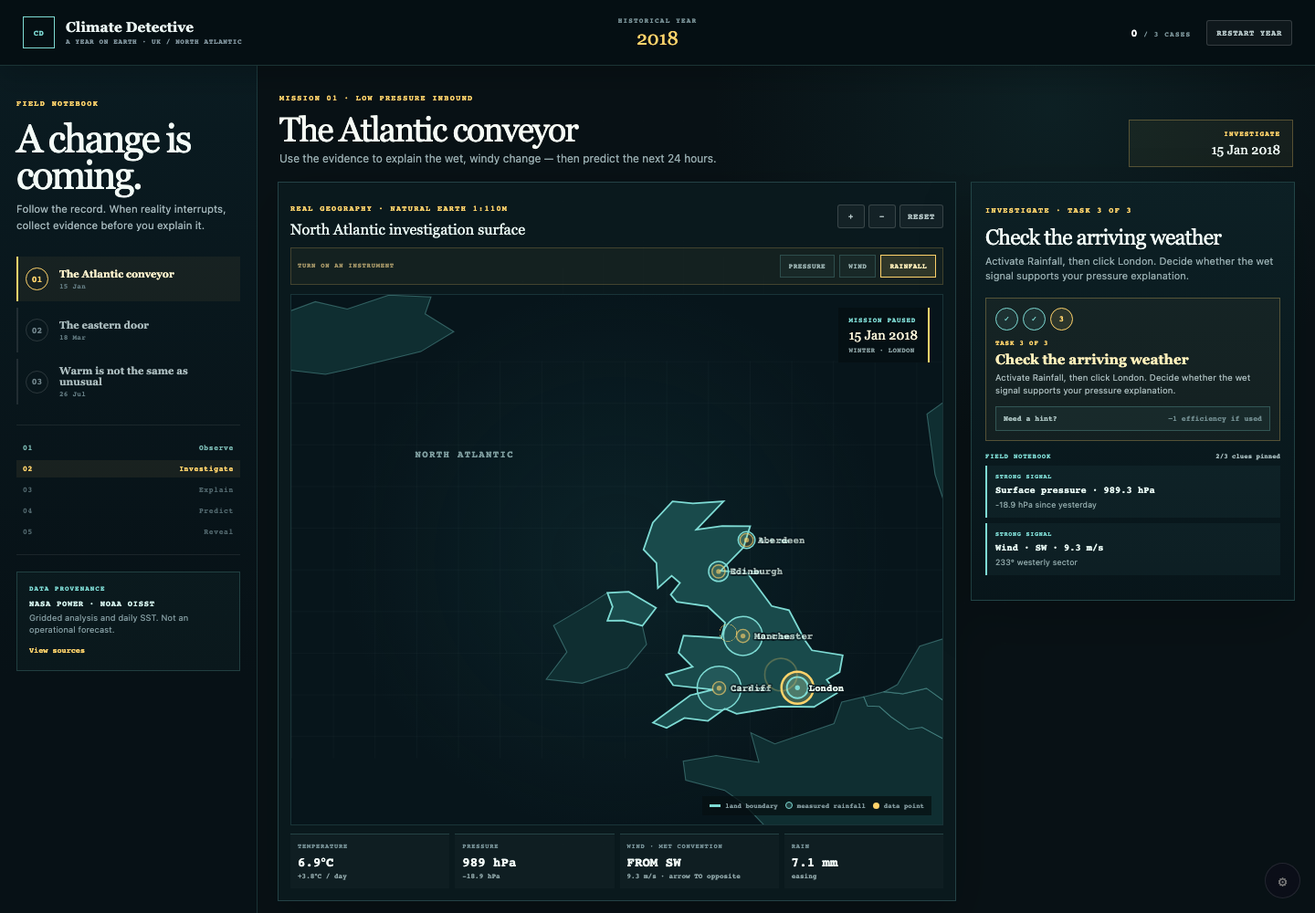
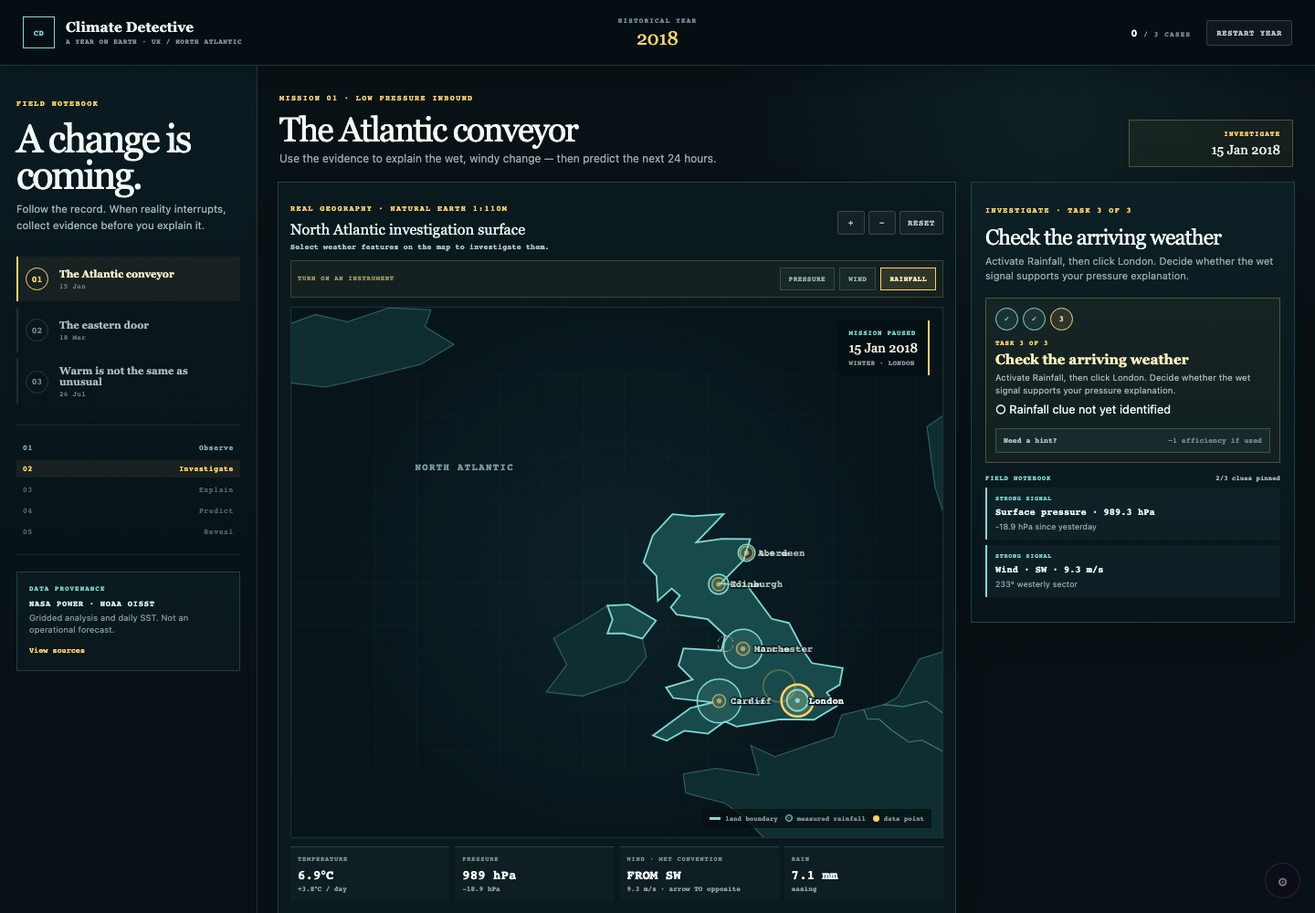
fix(climate): restore rendered map pointer interactions

diff --git a/app/games/climate-detective/ClimateDetectiveGame.tsx b/app/games/climate-detective/ClimateDetectiveGame.tsx
@@ -59,7 +59,7 @@ function EvidenceCard({ id, row, prior, location, date, selected, onSelect, disa
 
 function pressureCentreLabel(centre: PressureCentre) { return `${centre.kind === "L" ? "Low" : "High"} pressure centre · ${(centre.pressureKpa * 10).toFixed(0)} hPa`; }
 
-function MapPanel({ date, location, locations, onLocation, onPressureCentre, selectedPressureCentre, pressureTutorialSeen, onDismissPressureTutorial, mapView, setMapView, phase, activeMission, activeLayer, onLayer }: { date: string; location: ClimateLocation; locations: ClimateLocation[]; onLocation: (id: string) => void; onPressureCentre: (centre: PressureCentre) => void; selectedPressureCentre: PressureCentre | null; pressureTutorialSeen: boolean; onDismissPressureTutorial: () => void; mapView: MapView; setMapView: React.Dispatch<React.SetStateAction<MapView>>; phase: MissionPhase; activeMission: ClimateMission | null; activeLayer: MapLayer; onLayer: (layer: MapLayer) => void }) {
+function MapPanel({ date, location, locations, onLocation, onPressureCentre, onPressureContour, selectedPressureCentre, pressureTutorialSeen, onDismissPressureTutorial, mapView, setMapView, phase, activeMission, activeLayer, onLayer }: { date: string; location: ClimateLocation; locations: ClimateLocation[]; onLocation: (id: string) => void; onPressureCentre: (centre: PressureCentre) => void; onPressureContour: (levelKpa: number) => void; selectedPressureCentre: PressureCentre | null; pressureTutorialSeen: boolean; onDismissPressureTutorial: () => void; mapView: MapView; setMapView: React.Dispatch<React.SetStateAction<MapView>>; phase: MissionPhase; activeMission: ClimateMission | null; activeLayer: MapLayer; onLayer: (layer: MapLayer) => void }) {
   const drag = useRef<{ pointerId: number; x: number; y: number; originX: number; originY: number } | null>(null);
   const current = rowAt(location, date); const prior = previousRow(location, date); const next = nextRow(location, date);
   const pressurePoints = pressureFieldForDate(CLIMATE_DATA.pressureField, date);
@@ -74,7 +74,7 @@ function MapPanel({ date, location, locations, onLocation, onPressureCentre, sel
     const latitude = (segment.a.latitude + segment.b.latitude) / 2;
     return Math.hypot(longitude - selectedPressureCentre.longitude, latitude - selectedPressureCentre.latitude) <= 8;
   };
-  const startPan = (event: React.PointerEvent<SVGSVGElement>) => { if (event.pointerType === "mouse" && event.button !== 0) return; event.currentTarget.setPointerCapture(event.pointerId); drag.current = { pointerId: event.pointerId, x: event.clientX, y: event.clientY, originX: mapView.x, originY: mapView.y }; };
+  const startPan = (event: React.PointerEvent<SVGSVGElement>) => { if (event.pointerType === "mouse" && event.button !== 0) return; const target = event.target as Element | null; if (target?.closest?.(".climate-pressure-centre, .climate-location-marker, .climate-wind-vector, .climate-rain-signal, .climate-isobar")) return; event.currentTarget.setPointerCapture(event.pointerId); drag.current = { pointerId: event.pointerId, x: event.clientX, y: event.clientY, originX: mapView.x, originY: mapView.y }; };
   const pan = (event: React.PointerEvent<SVGSVGElement>) => { const active = drag.current; if (!active || active.pointerId !== event.pointerId) return; setMapView(view => ({ ...view, x: active.originX + event.clientX - active.x, y: active.originY + event.clientY - active.y })); };
   const stopPan = () => { drag.current = null; };
   const mapPoint = (longitude: number, latitude: number) => project(longitude, latitude);
@@ -84,7 +84,7 @@ function MapPanel({ date, location, locations, onLocation, onPressureCentre, sel
   };
   const keyboardActivate = (event: React.KeyboardEvent<SVGGElement>, action: () => void) => { if (event.key === "Enter" || event.key === " ") { event.preventDefault(); action(); } };
   return <section className="climate-map-panel" aria-label="Real geographic map of the United Kingdom and North Atlantic">
-    <div className="climate-map-heading"><div><span className="climate-overline">REAL GEOGRAPHY · NATURAL EARTH 1:110m</span><b>North Atlantic investigation surface</b></div><div className="climate-map-controls"><button onClick={() => setMapView(view => ({ ...view, scale: Math.min(2.8, view.scale + .25) }))} aria-label="Zoom in">+</button><button onClick={() => setMapView(view => ({ ...view, scale: Math.max(1, view.scale - .25) }))} aria-label="Zoom out">−</button><button onClick={() => setMapView({ scale: 1, x: 0, y: 0 })}>Reset</button></div></div>
+    <div className="climate-map-heading"><div><span className="climate-overline">REAL GEOGRAPHY · NATURAL EARTH 1:110m</span><b>North Atlantic investigation surface</b><small className="climate-map-interaction-hint">Select weather features on the map to investigate them.</small></div><div className="climate-map-controls"><button onClick={() => setMapView(view => ({ ...view, scale: Math.min(2.8, view.scale + .25) }))} aria-label="Zoom in">+</button><button onClick={() => setMapView(view => ({ ...view, scale: Math.max(1, view.scale - .25) }))} aria-label="Zoom out">−</button><button onClick={() => setMapView({ scale: 1, x: 0, y: 0 })}>Reset</button></div></div>
     {phase === "investigate" && activeMission?.id === "depression" && <div className="climate-map-layer-controls" aria-label="Investigation instruments"><span>TURN ON AN INSTRUMENT</span>{(["pressure", "wind", "rain"] as MapLayer[]).filter(layer => layer !== "none").map(layer => <button key={layer} className={activeLayer === layer ? "active" : ""} aria-pressed={activeLayer === layer} onClick={() => onLayer(layer)}>{layer === "pressure" ? "Pressure" : layer === "wind" ? "Wind" : "Rainfall"}</button>)}</div>}
     <div className="climate-map-frame"><svg viewBox={`0 0 ${mapBounds.width} ${mapBounds.height}`} role="img" aria-label={`Map showing the UK on ${formatDate(date)}`} onPointerDown={startPan} onPointerMove={pan} onPointerUp={stopPan} onPointerCancel={stopPan}>
       <defs><pattern id="climate-grid" width="64" height="64" patternUnits="userSpaceOnUse"><path d="M64 0H0V64" fill="none" stroke="rgba(159,221,226,.08)" strokeWidth="1" /></pattern><marker id="wind-arrow" viewBox="0 0 10 10" refX="8" refY="5" markerWidth="4" markerHeight="4" orient="auto-start-reverse"><path d="M0 0L10 5L0 10z" fill="#ffd36b" /></marker></defs>
@@ -92,11 +92,11 @@ function MapPanel({ date, location, locations, onLocation, onPressureCentre, sel
       <g transform={`translate(${mapView.x} ${mapView.y}) scale(${mapView.scale})`}>
         {shapes.features.map(feature => <path key={feature.properties.ADMIN} d={featurePath(feature)} className={`climate-land ${feature.properties.ADMIN === "United Kingdom" ? "focus" : ""}`} />)}
         <text x="152" y="118" className="climate-map-label soft">NORTH ATLANTIC</text>
-        {activeLayer === "pressure" && pressureSegments.map((segment, index) => { const a = mapPoint(segment.a.longitude, segment.a.latitude); const b = mapPoint(segment.b.longitude, segment.b.latitude); return <line key={`${segment.levelKpa}-${index}`} className={`climate-isobar ${isNearSelectedCentre(segment) ? "selected" : ""}`} x1={a.x} y1={a.y} x2={b.x} y2={b.y} data-level={segment.levelKpa.toFixed(1)} />; })}
+        {activeLayer === "pressure" && pressureSegments.map((segment, index) => { const a = mapPoint(segment.a.longitude, segment.a.latitude); const b = mapPoint(segment.b.longitude, segment.b.latitude); return <line key={`${segment.levelKpa}-${index}`} className={`climate-isobar ${isNearSelectedCentre(segment) ? "selected" : ""}`} x1={a.x} y1={a.y} x2={b.x} y2={b.y} data-level={segment.levelKpa.toFixed(1)} onClick={() => onPressureContour(segment.levelKpa)} />; })}
         {activeLayer === "pressure" && pressureLabels.map(label => { const point = mapPoint(label.longitude, label.latitude); return <g key={`pressure-label-${label.levelKpa}`} className="climate-isobar-label" aria-hidden="true"><rect x={point.x - 19} y={point.y - 9} width="38" height="18" rx="3" /><text x={point.x} y={point.y + 4} textAnchor="middle">{(label.levelKpa * 10).toFixed(0)}</text></g>; })}
-        {activeLayer === "pressure" && pressureCentres.map(centre => { const point = mapPoint(centre.longitude, centre.latitude); const inspect = () => onPressureCentre(centre); return <g key={centre.kind} className={`climate-pressure-centre ${centre.kind === "L" ? "low" : "high"} ${isSelectedCentre(centre) ? "selected" : ""}`} onClick={inspect} onKeyDown={event => keyboardActivate(event, inspect)} role="button" tabIndex={0} aria-label={`Inspect ${pressureCentreLabel(centre)}`}><circle cx={point.x} cy={point.y} r="17" /><text x={point.x} y={point.y + 6} textAnchor="middle">{centre.kind}</text><text x={point.x + 22} y={point.y + 4} className="climate-pressure-label">{(centre.pressureKpa * 10).toFixed(0)} hPa</text></g>; })}
-        {activeLayer === "wind" && locations.map(item => { const row = rowAt(item, date); const arrow = windArrow(item); const inspect = () => onLocation(item.id); return <g key={`wind-${item.id}`} className={`climate-wind-vector ${item.id === location.id ? "selected" : ""}`} onClick={inspect} onKeyDown={event => keyboardActivate(event, inspect)} role="button" tabIndex={0} aria-label={`Inspect ${item.name} wind from ${row.windCompass}`}><line x1={arrow.origin.x} y1={arrow.origin.y} x2={arrow.end.x} y2={arrow.end.y} markerEnd="url(#wind-arrow)" /><text x={arrow.end.x + 6} y={arrow.end.y + 4}>FROM {row.windCompass}</text></g>; })}
-        {activeLayer === "rain" && locations.map(item => { const row = rowAt(item, date); const point = mapPoint(item.longitude, item.latitude); const inspect = () => onLocation(item.id); return <g key={`rain-${item.id}`} className={`climate-rain-signal ${item.id === location.id ? "selected" : ""}`} onClick={inspect} onKeyDown={event => keyboardActivate(event, inspect)} role="button" tabIndex={0} aria-label={`Inspect ${item.name} rainfall ${row.precipitation.toFixed(1)} millimetres`}><circle cx={point.x} cy={point.y} r={9 + Math.min(18, row.precipitation * 1.5)} /><text x={point.x + 16} y={point.y + 4}>{row.precipitation.toFixed(1)} mm</text></g>; })}
+        {activeLayer === "pressure" && pressureCentres.map(centre => { const point = mapPoint(centre.longitude, centre.latitude); const inspect = () => onPressureCentre(centre); return <g key={centre.kind} className={`climate-pressure-centre ${centre.kind === "L" ? "low" : "high"} ${isSelectedCentre(centre) ? "selected" : ""}`} onClick={inspect} onKeyDown={event => keyboardActivate(event, inspect)} role="button" tabIndex={0} aria-label={`Inspect ${pressureCentreLabel(centre)}`}><rect className="climate-pressure-hit-area" x={point.x - 30} y={point.y - 30} width="120" height="60" aria-hidden="true" /><circle cx={point.x} cy={point.y} r="17" /><text x={point.x} y={point.y + 6} textAnchor="middle">{centre.kind}</text><text x={point.x + 22} y={point.y + 4} className="climate-pressure-label">{(centre.pressureKpa * 10).toFixed(0)} hPa</text></g>; })}
+        {activeLayer === "wind" && locations.map(item => { const row = rowAt(item, date); const arrow = windArrow(item); const inspect = () => onLocation(item.id); const hitX = Math.min(arrow.origin.x, arrow.end.x) - 18; const hitY = Math.min(arrow.origin.y, arrow.end.y) - 18; const hitWidth = Math.abs(arrow.end.x - arrow.origin.x) + 72; const hitHeight = Math.abs(arrow.end.y - arrow.origin.y) + 36; return <g key={`wind-${item.id}`} className={`climate-wind-vector ${item.id === location.id ? "selected" : ""}`} onClick={inspect} onKeyDown={event => keyboardActivate(event, inspect)} role="button" tabIndex={0} aria-label={`Inspect ${item.name} wind from ${row.windCompass}`}><rect className="climate-feature-hit-area" x={hitX} y={hitY} width={hitWidth} height={hitHeight} aria-hidden="true" /><line x1={arrow.origin.x} y1={arrow.origin.y} x2={arrow.end.x} y2={arrow.end.y} markerEnd="url(#wind-arrow)" /><text x={arrow.end.x + 6} y={arrow.end.y + 4}>FROM {row.windCompass}</text></g>; })}
+        {activeLayer === "rain" && locations.map(item => { const row = rowAt(item, date); const point = mapPoint(item.longitude, item.latitude); const inspect = () => onLocation(item.id); return <g key={`rain-${item.id}`} className={`climate-rain-signal ${item.id === location.id ? "selected" : ""}`} onClick={inspect} onKeyDown={event => keyboardActivate(event, inspect)} role="button" tabIndex={0} aria-label={`Inspect ${item.name} rainfall ${row.precipitation.toFixed(1)} millimetres`}><rect className="climate-feature-hit-area" x={point.x - 28} y={point.y - 28} width="72" height="56" aria-hidden="true" /><circle cx={point.x} cy={point.y} r={9 + Math.min(18, row.precipitation * 1.5)} /><text x={point.x + 16} y={point.y + 4}>{row.precipitation.toFixed(1)} mm</text></g>; })}
         {locations.map(item => { const point = project(item.longitude, item.latitude); const selectedPoint = item.id === location.id; return <g key={item.id} className={`climate-location-marker ${selectedPoint ? "selected" : ""}`} onClick={() => onLocation(item.id)} role="button" aria-label={`Select ${item.name}`}><circle cx={point.x} cy={point.y} r={selectedPoint ? 13 : 8} /><circle cx={point.x} cy={point.y} r="3" /><text x={point.x + 14} y={point.y + 4}>{item.name}</text></g>; })}
         {activeMission && <g className="climate-event-pulse"><circle cx={project(location.longitude, location.latitude).x} cy={project(location.longitude, location.latitude).y} r="24" /><circle cx={project(location.longitude, location.latitude).x} cy={project(location.longitude, location.latitude).y} r="35" /></g>}
       </g>
@@ -151,7 +151,7 @@ export default function ClimateDetectiveGame({ onBack }: { onBack: () => void })
   const guidedMission = activeMission?.id === "depression" && phase === "investigate";
   const guidedTaskNumber = guidedTask === "complete" ? 3 : guidedTask;
   const taskCopy = {
-    1: { title: "Find the pressure system", instruction: "Britain’s weather is changing. Use the pressure map to find the weather system that may be responsible.", success: "Pressure clue pinned." },
+    1: { title: "Find the pressure system", instruction: "Britain’s weather is changing. Use the pressure map to find the weather system that may be responsible. Select weather features on the map to investigate them.", success: "Pressure clue pinned." },
     2: { title: "Trace the air", instruction: "Activate Wind, then click London. Read the label as the direction the wind comes FROM; the arrow points TO.", success: "Wind clue pinned. London reports a south-westerly flow, arriving from the Atlantic." },
     3: { title: "Check the arriving weather", instruction: "Activate Rainfall, then click London. Decide whether the wet signal supports your pressure explanation.", success: "Rainfall clue pinned. The wet-day signal supports rising, condensing air as an explanation." },
   } as const;
@@ -184,28 +184,32 @@ export default function ClimateDetectiveGame({ onBack }: { onBack: () => void })
     if (!guidedMission || guidedTask === "complete") { chooseLocation(id); return; }
     if (guidedTask === 2 && activeLayer === "wind" && id === "london") { chooseLocation(id); pinEvidence("wind"); setTaskMessage(taskCopy[2].success); return; }
     if (guidedTask === 3 && activeLayer === "rain" && id === "london") { chooseLocation(id); pinEvidence("rain"); setTaskMessage(taskCopy[3].success); return; }
+    if (guidedTask === 1 && activeLayer === "pressure" && id === "london") { setTaskMessage("London is the observation location. You’re looking for the pressure system influencing it. Investigate the wider North Atlantic."); return; }
+    if (guidedTask === 1) { setTaskMessage("That is an observation point, not the pressure system. Use the Pressure layer to investigate the wider field."); return; }
     setTaskMessage(guidedTask === 2 ? "Task 2 needs the Wind instrument and London's point vector." : "Task 3 needs the Rainfall instrument and London's point signal.");
   };
   const inspectPressureCentre = (centre: PressureCentre) => {
     if (guidedMission && guidedTask === 1 && activeLayer === "pressure" && centre.kind === "L") { setSelectedPressureCentre(centre); pinEvidence("pressure"); setTaskMessage(`LOW-PRESSURE SYSTEM FOUND. Pressure decreases toward ${Math.round(centre.pressureKpa * 10)} hPa at this centre. Each highlighted line joins places with equal surface pressure.`); return; }
-    if (guidedMission && guidedTask === 1) setTaskMessage("Task 1 asks for the L marker in the Pressure layer. The H is useful context, not the requested clue.");
+    if (guidedMission && guidedTask === 1 && activeLayer === "pressure" && centre.kind === "H") { setTaskMessage("That’s a high-pressure centre. Britain’s current change is associated with a different pressure pattern. Compare the values and look for where they decrease toward a centre."); return; }
+    if (guidedMission && guidedTask === 1) setTaskMessage("Task 1 asks for a pressure system in the Pressure layer. Compare the surrounding values and inspect the centre where they become lower.");
   };
+  const inspectPressureContour = (levelKpa: number) => { if (guidedMission && guidedTask === 1 && activeLayer === "pressure") setTaskMessage(`This is an isobar at ${Math.round(levelKpa * 10)} hPa: a line joining places with equal air pressure. Follow the values to find where they become lower.`); };
   const changeLayer = (layer: MapLayer) => { setActiveLayer(layer); if (guidedMission && guidedTask !== "complete") setTaskMessage(""); };
   const advanceGuidedTask = () => {
     if (guidedTask === 1 && selectedEvidence.includes("pressure")) { setGuidedTask(2); setActiveLayer("none"); setTaskMessage(""); }
     else if (guidedTask === 2 && selectedEvidence.includes("wind")) { setGuidedTask(3); setActiveLayer("none"); setTaskMessage(""); }
     else if (guidedTask === 3 && selectedEvidence.includes("rain")) { setGuidedTask("complete"); setActiveLayer("none"); setTaskMessage(""); }
   };
-  const hintText = guidedTask === 1 ? ["Compare the pressure values around Britain and the North Atlantic.", "Look for pressure values that decrease toward a centre.", "Look west of Britain and follow the lower values.", "A low-pressure centre is marked L."][Math.min(hintsUsed, 3)] : guidedTask === 2 ? ["The arrow is not the FROM direction.", "Turn on Wind.", "Inspect London's labelled point vector."][Math.min(hintsUsed, 2)] : ["Look for a wet-day reading.", "Turn on Rainfall.", "Click London's rainfall signal."][Math.min(hintsUsed, 2)];
+  const hintText = guidedTask === 1 ? ["Compare the pressure values across the North Atlantic.", "Look for values that decrease toward a centre.", "Select a pressure centre on the map to inspect it.", "Try the low-pressure centre marked L west/north-west of Britain."][Math.min(hintsUsed, 3)] : guidedTask === 2 ? ["The arrow is not the FROM direction.", "Turn on Wind.", "Inspect London's labelled point vector."][Math.min(hintsUsed, 2)] : ["Look for a wet-day reading.", "Turn on Rainfall.", "Click London's rainfall signal."][Math.min(hintsUsed, 2)];
 
   return <main className="climate-detective" style={{ "--climate-accent": phase === "investigate" || phase === "explain" || phase === "predict" ? "#ffd36b" : "#7edbd4" } as React.CSSProperties}>
     <header className="climate-header"><button className="climate-brand" onClick={onBack} aria-label="Return to Axiom Atlas"><span>CD</span><div><b>Climate Detective</b><small>A Year on Earth · UK / North Atlantic</small></div></button><div className="climate-header-centre"><span>HISTORICAL YEAR</span><b>{CLIMATE_DATA.historicalYear}</b></div><div className="climate-header-tools"><span><b>{solvedCount}</b> / {CLIMATE_MISSIONS.length} cases</span><button onClick={restart}>Restart year</button></div></header>
     <div className="climate-body"><aside className="climate-sidebar"><div className="climate-sidebar-top"><span className="climate-overline">FIELD NOTEBOOK</span><h1>A change is coming.</h1><p>Follow the record. When reality interrupts, collect evidence before you explain it.</p></div><MissionRail missions={CLIMATE_MISSIONS} activeIndex={activeMissionIndex} completed={completed} /><div className="climate-loop"><span className={phase === "observe" ? "active" : "done"}>01 <b>Observe</b></span><span className={phase === "investigate" ? "active" : phase === "observe" ? "" : "done"}>02 <b>Investigate</b></span><span className={phase === "explain" ? "active" : ["predict", "reveal", "reflect", "assessment"].includes(phase) ? "done" : ""}>03 <b>Explain</b></span><span className={phase === "predict" ? "active" : ["reveal", "reflect", "assessment"].includes(phase) ? "done" : ""}>04 <b>Predict</b></span><span className={phase === "reveal" || phase === "reflect" ? "active" : phase === "assessment" ? "done" : ""}>05 <b>Reveal</b></span></div><div className="climate-source-stamp"><small>DATA PROVENANCE</small><b>NASA POWER · NOAA OISST</b><span>Gridded analysis and daily SST. Not an operational forecast.</span><button onClick={() => window.alert("NASA POWER daily meteorology (MERRA-2) · NOAA OISST v2.1 · Natural Earth 1:110m. Full provenance is in docs/climate-detective/DATA_SOURCES.md.")}>View sources</button></div></aside>
       <div className="climate-main"><div className="climate-mission-banner"><div><span className="climate-overline">{phase === "assessment" ? "END-OF-YEAR WEATHER REPORT" : activeMission ? `MISSION ${activeMission.number} · ${activeMission.kicker}` : "THE RECORD IS MOVING"}</span><h2>{phase === "assessment" ? "Write the final forecast." : activeMission ? activeMission.title : "Run the year until something changes."}</h2><p>{phase === "assessment" ? "You have investigated three interruptions. Use the evidence pattern you learned to make one final weather report." : activeMission ? activeMission.objective : "Start near the beginning of 2018. The next clue will pause the clock for you."}</p></div><div className="climate-mission-status"><span>{phase === "observe" ? "READY TO RUN" : phase === "assessment" ? "YEAR COMPLETE" : phase.toUpperCase()}</span><b>{formatDate(date)}</b></div></div>
-        <div className="climate-workspace"><MapPanel date={phase === "reveal" && revealDate ? revealDate : date} location={location} locations={CLIMATE_DATA.locations} onLocation={chooseMapLocation} onPressureCentre={inspectPressureCentre} selectedPressureCentre={selectedPressureCentre} pressureTutorialSeen={pressureTutorialSeen} onDismissPressureTutorial={() => setPressureTutorialSeen(true)} mapView={mapView} setMapView={setMapView} phase={phase} activeMission={activeMission} activeLayer={activeLayer} onLayer={changeLayer} />
+        <div className="climate-workspace"><MapPanel date={phase === "reveal" && revealDate ? revealDate : date} location={location} locations={CLIMATE_DATA.locations} onLocation={chooseMapLocation} onPressureCentre={inspectPressureCentre} onPressureContour={inspectPressureContour} selectedPressureCentre={selectedPressureCentre} pressureTutorialSeen={pressureTutorialSeen} onDismissPressureTutorial={() => setPressureTutorialSeen(true)} mapView={mapView} setMapView={setMapView} phase={phase} activeMission={activeMission} activeLayer={activeLayer} onLayer={changeLayer} />
           <aside className="climate-inspector">
             {phase === "observe" && <><div className="climate-inspector-heading"><span className="climate-overline">WHAT DO YOU NOTICE?</span><h3>The map is quiet — for now.</h3><p>Move time forward in meaningful jumps. The next data-backed event will stop the clock.</p></div><div className="climate-time-controls"><button className="climate-run-button" onClick={nextClue}>▶ Run to next clue</button><div><button onClick={() => advance(-1)} disabled={date === CLIMATE_START}>− day</button><button onClick={() => advance(1)}>+ day</button><button onClick={() => advance(7)}>+ week</button><button onClick={() => advance(30)}>+ month</button></div><label><span>2018 timeline</span><input type="range" min="1" max="365" value={timelinePosition} onChange={event => advance(Number(event.target.value) - timelinePosition)} /><div><small>Jan</small><small>Dec</small></div></label></div><div className="climate-observe-cards"><Sparkline rows={signalRows} field="t2m" color="#ffb86b" label="temperature · °C" /><Sparkline rows={signalRows} field="pressureKpa" color="#7edbd4" label="pressure · kPa" /></div><div className="climate-atlas-callout"><span>FIELD RULE</span><b>Real data creates the mystery.</b><p>Layers are instruments. Your job is to decide which signal matters before the explanation is revealed.</p></div></>}
-            {phase === "investigate" && activeMission && <>{guidedMission ? <><div className="climate-inspector-heading"><span className="climate-overline">INVESTIGATE · TASK {guidedTaskNumber} OF 3</span><h3>{guidedTask === "complete" ? "Your notebook has three clues." : currentTask.title}</h3><p>{guidedTask === "complete" ? "The map work is done. Use the pinned evidence to build a causal explanation." : currentTask.instruction}</p></div>{guidedTask !== "complete" && <div className="climate-guided-task"><div className="climate-guided-progress">{([1, 2, 3] as const).map(step => <span key={step} className={step < guidedTask || (step === guidedTask && currentTaskDone) ? "done" : step === guidedTask ? "active" : ""}>{step < guidedTask || (step === guidedTask && currentTaskDone) ? "✓" : step}</span>)}</div><div className="climate-guided-brief"><span>TASK {guidedTask} OF 3</span><b>{currentTask.title}</b><p>{currentTask.instruction}</p></div><button className="climate-hint-button" onClick={() => { setHintsUsed(value => value + 1); setTaskMessage(`Hint: ${hintText}`); }}>Need a hint? <span>−1 efficiency if used</span></button>{taskMessage && <div className="climate-task-feedback">{taskMessage}</div>}{currentTaskDone && <button className="climate-action-button" onClick={advanceGuidedTask}>{guidedTask === 3 ? "Open causal explanation" : `Continue to task ${guidedTask + 1}`} <span>→</span></button>}</div>}<NotebookEvidence ids={selectedEvidence.filter(id => ["pressure", "wind", "rain"].includes(id))} row={current} prior={prior} location={location} date={date} />{guidedTask === "complete" && <><div className="climate-guided-complete"><span>3 / 3 MAP TASKS COMPLETE</span><b>Evidence is pinned. Now explain the change.</b><p>Pressure is the strong system signal. Wind is the direction clue. Rainfall is supporting evidence for rising, condensing air.</p></div><button className="climate-action-button" onClick={() => setPhase("explain")}>Build causal explanation <span>→</span></button></>}</> : <><div className="climate-inspector-heading"><span className="climate-overline">INVESTIGATE · CHOOSE EVIDENCE</span><h3>{activeMission.prompt}</h3><p>Pin at least two signals. Your evidence stays deterministic and data-backed.</p></div><div className="climate-evidence-list">{activeMission.evidence.map(id => <EvidenceCard key={id} id={id} row={current} prior={prior} location={location} date={date} selected={selectedEvidence.includes(id)} onSelect={() => selectEvidence(id)} />)}</div><button className="climate-action-button" disabled={selectedEvidence.length < 2} onClick={() => setPhase("explain")}>Build explanation <span>→</span></button></>}</>}
+            {phase === "investigate" && activeMission && <>{guidedMission ? <><div className="climate-inspector-heading"><span className="climate-overline">INVESTIGATE · TASK {guidedTaskNumber} OF 3</span><h3>{guidedTask === "complete" ? "Your notebook has three clues." : currentTask.title}</h3><p>{guidedTask === "complete" ? "The map work is done. Use the pinned evidence to build a causal explanation." : currentTask.instruction}</p></div>{guidedTask !== "complete" && <div className="climate-guided-task"><div className="climate-guided-progress">{([1, 2, 3] as const).map(step => <span key={step} className={step < guidedTask || (step === guidedTask && currentTaskDone) ? "done" : step === guidedTask ? "active" : ""}>{step < guidedTask || (step === guidedTask && currentTaskDone) ? "✓" : step}</span>)}</div><div className="climate-guided-brief"><span>TASK {guidedTask} OF 3</span><b>{currentTask.title}</b><p>{currentTask.instruction}</p><small className="climate-guided-status">{currentTaskDone ? `✓ ${guidedTask === 1 ? "Low-pressure system identified" : guidedTask === 2 ? "Wind clue identified" : "Rainfall clue identified"}` : guidedTask === 1 ? "○ Pressure system not yet identified" : guidedTask === 2 ? "○ Wind clue not yet identified" : "○ Rainfall clue not yet identified"}</small></div><button className="climate-hint-button" onClick={() => { setHintsUsed(value => value + 1); setTaskMessage(`Hint: ${hintText}`); }}>Need a hint? <span>−1 efficiency if used</span></button>{taskMessage && <div className="climate-task-feedback">{taskMessage}</div>}{currentTaskDone && <button className="climate-action-button" onClick={advanceGuidedTask}>{guidedTask === 3 ? "Open causal explanation" : `Continue to task ${guidedTask + 1}`} <span>→</span></button>}</div>}<NotebookEvidence ids={selectedEvidence.filter(id => ["pressure", "wind", "rain"].includes(id))} row={current} prior={prior} location={location} date={date} />{guidedTask === "complete" && <><div className="climate-guided-complete"><span>3 / 3 MAP TASKS COMPLETE</span><b>Evidence is pinned. Now explain the change.</b><p>Pressure is the strong system signal. Wind is the direction clue. Rainfall is supporting evidence for rising, condensing air.</p></div><button className="climate-action-button" onClick={() => setPhase("explain")}>Build causal explanation <span>→</span></button></>}</> : <><div className="climate-inspector-heading"><span className="climate-overline">INVESTIGATE · CHOOSE EVIDENCE</span><h3>{activeMission.prompt}</h3><p>Pin at least two signals. Your evidence stays deterministic and data-backed.</p></div><div className="climate-evidence-list">{activeMission.evidence.map(id => <EvidenceCard key={id} id={id} row={current} prior={prior} location={location} date={date} selected={selectedEvidence.includes(id)} onSelect={() => selectEvidence(id)} />)}</div><button className="climate-action-button" disabled={selectedEvidence.length < 2} onClick={() => setPhase("explain")}>Build explanation <span>→</span></button></>}</>}
             {phase === "explain" && activeMission && <><div className="climate-inspector-heading"><span className="climate-overline">EXPLAIN · BUILD A CAUSAL CHAIN</span><h3>What caused the change?</h3><p>Order the process. Tap a filled link to remove it and repair a wrong turn. Then write the field note.</p></div><div className="climate-chain-progress"><span>CAUSAL CHAIN</span><b>{chain.length} / {activeMission.chain.length} links placed</b></div><div className="climate-chain-board">{chain.map((stepId, index) => { const step = activeMission.chain.find(item => item.id === stepId); if (!step) return null; return <button key={stepId} className="climate-chain-step filled" onClick={() => removeChainStep(index)}><span>{index + 1}</span><b>{step.label}</b><small>{step.short}</small></button>; })}{chain.length === 0 && <div className="climate-chain-empty">Start with the process that the evidence supports.</div>}</div>{chain.length > 0 && !chainOrderCorrect && <div className="climate-chain-warning"><b>Order check</b><p>This link may be real, but it is not in the causal position yet. Tap it above to remove it, then choose the next supported process.</p></div>}<div className="climate-chain-options"><small>AVAILABLE LINKS · TAP TO PLACE</small>{chainRemaining.map(step => <button key={step.id} onClick={() => addChainStep(step.id)}><span>＋</span>{step.label}</button>)}</div><label className="climate-answer"><span>YOUR FIELD NOTE · REQUIRED</span><textarea value={answer} onChange={event => setAnswer(event.target.value)} placeholder="Explain how the low-pressure system changed Britain's weather…" rows={4} /><small>{usedConcepts.length ? `${usedConcepts.join(" · ")} recognised` : "Name at least two climate concepts. The evaluator uses deterministic concept matching."}</small></label><div className="climate-explanation-lock"><span>{explanationReasons.length ? "FORECAST LOCKED UNTIL" : "EXPLANATION READY"}</span>{explanationReasons.length ? <ul>{explanationReasons.map(reason => <li key={reason}>{reason}</li>)}</ul> : <p>Full chain, field note, and concept evidence are present.</p>}</div><button className="climate-action-button" disabled={explanationReasons.length > 0} onClick={lockExplanation}>{activeMission.forecast ? "Move to forecast" : "Reveal the result"} <span>{explanationReasons.length ? "🔒" : "→"}</span></button></>}
             {phase === "predict" && activeMission && <><div className="climate-inspector-heading"><span className="climate-overline">PREDICT · NEXT 24 HOURS</span><h3>What happens tomorrow?</h3><p>Choose directions, not false precision. You will see the historical answer after you commit.</p></div><div className="climate-forecast-card"><ForecastControl label="Temperature" value={forecast.temperature} choices={["warmer", "steady", "cooler"]} onChange={value => setForecast(old => ({ ...old, temperature: value }))} /><ForecastControl label="Pressure" value={forecast.pressure} choices={["rising", "steady", "falling"]} onChange={value => setForecast(old => ({ ...old, pressure: value }))} /><ForecastControl label="Wind" value={forecast.wind} choices={["stronger", "steady", "lighter"]} onChange={value => setForecast(old => ({ ...old, wind: value }))} /><ForecastControl label="Rain" value={forecast.rain} choices={["wetter", "steady", "drier"]} onChange={value => setForecast(old => ({ ...old, rain: value }))} /></div><div className="climate-prediction-signal"><span>YOUR EVIDENCE</span><b>{selectedEvidence.map(evidenceLabel).join(" · ")}</b></div><button className="climate-action-button" onClick={reveal}>Run +24 hours <span>→</span></button></>}
             {phase === "reveal" && activeMission && result && <><div className="climate-inspector-heading"><span className="climate-overline">REVEAL · REALITY CHECK</span><h3>The record answers back.</h3><p>You made a claim. Now compare it with the actual next day in the historical year.</p></div><ScoreCard result={result} mission={activeMission} actual={current} following={following} /><button className="climate-action-button" onClick={continueAfterReveal}>{activeMissionIndex < CLIMATE_MISSIONS.length - 1 ? "Continue the year" : "Finish the year"} <span>→</span></button></>}

diff --git a/app/globals.css b/app/globals.css
@@ -238,6 +238,7 @@ button:focus-visible { outline: 2px solid #fff; outline-offset: 4px; }
 .climate-map-panel { min-width:0; padding:13px; border:1px solid rgba(126,219,212,.22); background:rgba(10,25,30,.9); box-shadow:0 20px 55px rgba(0,0,0,.18); }
 .climate-map-heading { display:flex; justify-content:space-between; align-items:center; gap:12px; margin-bottom:10px; }
 .climate-map-heading b { display:block; margin-top:5px; color:#e7f5f1; font:500 1.02rem var(--serif); }
+.climate-map-interaction-hint { display:block; margin-top:5px; color:#a9c7c4; font:600 .52rem var(--mono); letter-spacing:.02em; }
 .climate-map-controls { display:flex; gap:4px; }
 .climate-map-controls button { min-width:30px; padding:7px 8px; }
 .climate-map-layer-controls { display:flex; align-items:center; flex-wrap:wrap; gap:5px; margin:0 0 10px; padding:7px; border:1px solid rgba(255,211,107,.2); background:rgba(255,211,107,.045); }
@@ -245,7 +246,7 @@ button:focus-visible { outline: 2px solid #fff; outline-offset: 4px; }
 .climate-map-layer-controls button { padding:7px 9px; border:1px solid rgba(126,219,212,.22); background:rgba(126,219,212,.045); color:#9db5b4; font:800 .48rem var(--mono); letter-spacing:.06em; text-transform:uppercase; cursor:pointer; }
 .climate-map-layer-controls button:hover,.climate-map-layer-controls button.active { border-color:#ffd36b; color:#fff0bb; background:rgba(255,211,107,.12); }
 .climate-map-targets { position:absolute; inset:0; z-index:3; pointer-events:none; }
-.climate-map-target { position:absolute; transform:translate(-50%,-50%); display:block; width:48px; height:48px; min-width:48px; padding:0; border:0; border-radius:50%; background:transparent; color:transparent; cursor:pointer; pointer-events:auto; font-family:var(--mono); text-align:left; z-index:3; opacity:0; }
+.climate-map-target { position:absolute; transform:translate(-50%,-50%); display:none; width:48px; height:48px; min-width:48px; padding:0; border:0; border-radius:50%; background:transparent; color:transparent; cursor:pointer; pointer-events:auto; font-family:var(--mono); text-align:left; z-index:3; opacity:0; }
 .climate-map-target:hover,.climate-map-target.selected { opacity:0; }
 .climate-map-target:focus-visible { opacity:1; border:2px solid #fff1a8; background:rgba(34,48,45,.72); outline:2px solid rgba(255,211,107,.35); outline-offset:2px; }
 .climate-map-target b,.climate-map-target small { visibility:hidden; }
@@ -263,12 +264,14 @@ button:focus-visible { outline: 2px solid #fff; outline-offset: 4px; }
 .climate-location-marker:not(.selected) { opacity:.66; }
 .climate-location-marker.selected circle:first-child { fill:rgba(126,219,212,.2); stroke:#7edbd4; stroke-width:2; }
 .climate-location-marker.selected circle:nth-child(2) { fill:#7edbd4; }
-.climate-isobar { fill:none; stroke:rgba(126,219,212,.62); stroke-width:1.5; vector-effect:non-scaling-stroke; pointer-events:none; }
+.climate-isobar { fill:none; stroke:rgba(126,219,212,.62); stroke-width:1.5; vector-effect:non-scaling-stroke; pointer-events:stroke; cursor:help; }
 .climate-isobar.selected { stroke:#fff1a8; stroke-width:2.8; stroke-dasharray:8 4; animation:climate-isobar-pulse 2.2s ease-in-out infinite; }
 @keyframes climate-isobar-pulse { 0%,100% { opacity:.58; } 50% { opacity:1; } }
 .climate-isobar-label rect { fill:rgba(5,15,18,.84); stroke:rgba(126,219,212,.5); stroke-width:1; vector-effect:non-scaling-stroke; }
 .climate-isobar-label text { fill:#d4efeb; font:800 9px var(--mono); letter-spacing:.02em; }
 .climate-pressure-centre { cursor:pointer; }
+.climate-pressure-centre:hover circle,.climate-pressure-centre:focus-visible circle { stroke:#fff1a8; stroke-width:3; filter:drop-shadow(0 0 7px rgba(255,211,107,.7)); }
+.climate-pressure-hit-area { fill:transparent; stroke:none; pointer-events:all; }
 .climate-pressure-centre circle { fill:rgba(5,15,18,.86); stroke:#ffd36b; stroke-width:2; vector-effect:non-scaling-stroke; }
 .climate-pressure-centre.high circle { stroke:#7edbd4; }
 .climate-pressure-centre.selected circle { stroke:#fff1a8; stroke-width:3; filter:drop-shadow(0 0 7px rgba(255,211,107,.8)); }
@@ -284,6 +287,8 @@ button:focus-visible { outline: 2px solid #fff; outline-offset: 4px; }
 .climate-rain-signal circle { fill:rgba(126,219,212,.1); stroke:#7edbd4; stroke-width:1.5; vector-effect:non-scaling-stroke; }
 .climate-rain-signal.selected circle { fill:rgba(255,211,107,.18); stroke:#ffd36b; stroke-width:2.5; }
 .climate-rain-signal text { fill:#b7eee6; }
+.climate-feature-hit-area { fill:transparent; stroke:none; pointer-events:all; }
+.climate-event-pulse { pointer-events:none; }
 .climate-event-pulse circle { fill:none; stroke:#ffd36b; stroke-width:2; opacity:.6; transform-origin:center; animation:climate-pulse 2.1s ease-out infinite; }
 .climate-event-pulse circle+circle { animation-delay:.85s; }
 @keyframes climate-pulse { from { transform:scale(.25); opacity:.8; } to { transform:scale(1.2); opacity:0; } }
@@ -292,7 +297,7 @@ button:focus-visible { outline: 2px solid #fff; outline-offset: 4px; }
 .climate-map-badge b { display:block; margin:4px 0; color:#fff8dc; font:500 .9rem var(--serif); }
 .climate-map-badge small { color:#859b9d; font-weight:600; letter-spacing:.04em; }
 .climate-map-layer-note { margin-top:4px; color:#a69768 !important; font-size:.4rem !important; }
-.climate-pressure-tutorial { position:absolute; left:14px; top:14px; z-index:4; width:min(320px,calc(100% - 28px)); padding:12px 13px; border:1px solid rgba(255,211,107,.48); background:rgba(8,21,26,.93); box-shadow:0 12px 28px rgba(0,0,0,.24); }
+.climate-pressure-tutorial { position:absolute; left:50%; top:14px; transform:translateX(-50%); z-index:4; width:min(320px,calc(100% - 28px)); padding:12px 13px; border:1px solid rgba(255,211,107,.48); background:rgba(8,21,26,.93); box-shadow:0 12px 28px rgba(0,0,0,.24); }
 .climate-pressure-tutorial>span { display:block; color:#ffd36b; font:800 .47rem var(--mono); letter-spacing:.12em; }
 .climate-pressure-tutorial>b { display:block; margin-top:6px; color:#f6fbf5; font:500 1rem/1.12 var(--serif); }
 .climate-pressure-tutorial>p { margin:7px 0 10px; color:#b5c5c4; font-size:.66rem; line-height:1.45; }
